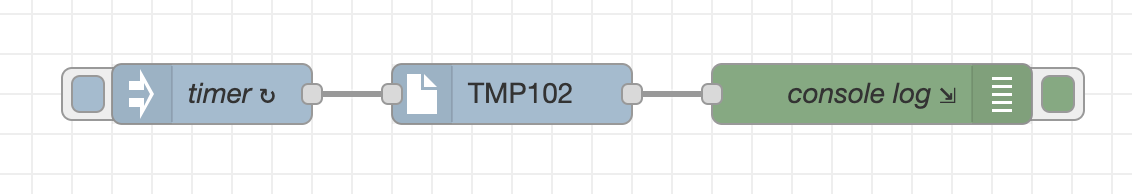
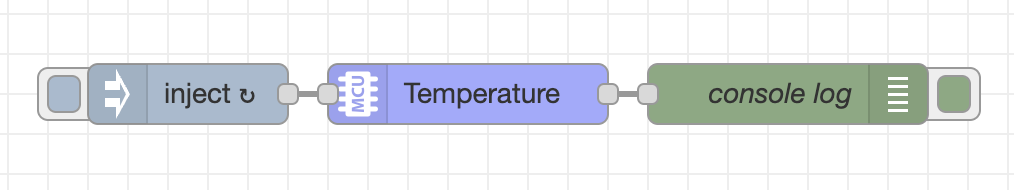
sensor node v2 docs

Changed region(s): [[0.0306, 0.3158, 0.9783, 0.6579]]

diff --git a/nodes/sensor/readme.md b/nodes/sensor/readme.md
@@ -1,10 +1,10 @@
 # MCU Sensor Node
-Copyright 2022, Moddable Tech, Inc. All rights reserved.<br>
+Copyright 2022-2023, Moddable Tech, Inc. All rights reserved.<br>
 Peter Hoddie<br>
-Updated September 29, 2022<br>
+Updated January 15, 2023<br>
 
 ## Overview
-The sensor node supports sensor classes that conform the Ecma-419 [Sensor Class Pattern](https://419.ecma-international.org/#-13-sensor-class-pattern). These include:
+The sensor node integrates sensor classes that conform the Ecma-419 [Sensor Class Pattern](https://419.ecma-international.org/#-13-sensor-class-pattern) into Node-RED. These include:
 
 - [Accelerometer](https://419.ecma-international.org/#-14-sensor-classes-accelerometer)
 - [Ambient light](https://419.ecma-international.org/#-14-sensor-classes-ambient-light)
@@ -14,10 +14,12 @@ The sensor node supports sensor classes that conform the Ecma-419 [Sensor Class 
 - [Temperature](https://419.ecma-international.org/#-14-sensor-classes-temperature)
 - [Touch](https://419.ecma-international.org/#-14-sensor-classes-touch)
 
-Many [additional kinds of sensors](https://github.com/EcmaTC53/spec/blob/master/docs/proposals/Sensor%20Classes%202022.md) will be supported with Ecma-419 2nd edition.
+Many [additional kinds of sensors](https://github.com/EcmaTC53/spec/blob/master/docs/proposals/Sensor%20Classes%202022.md) will be supported with ECMA-419 2nd edition.
+
+This is the second major iteration of the Sensor Node. It simplifies configuration of I/O while also provide many more I/O options. It is now driven by a sensor database that allows many configuration options to be set automatically.
 
 ## Installation
-The Sensor node must be installed into Node-RED to be used in the Node-RED editor. This is done in the usual way:
+The Sensor node must be installed into Node-RED to be used in the Node-RED Editor. This is done in the usual way:
 
 ```
 cd ~/.node-red
@@ -26,7 +28,7 @@ npm install [PATH TO node-red-mcu]/nodes/sensor
 
 The sensor node appears in the "MCU" section of the editor.
 
-## Using a sensor driver
+## Using a Sensor Driver
 A growing [suite](https://github.com/Moddable-OpenSource/moddable/tree/public/modules/drivers/sensors) of compatible sensor class implementations is available in the Moddable SDK. To use one or more of these drivers in your project, do the following steps.
 
 Add the sensor driver manifest to your project. For example, to use the [TMP102 sensor](https://github.com/Moddable-OpenSource/moddable/tree/public/modules/drivers/sensors/tmp102), include the sensor driver manifest in `node-red-mcu/manifest.json`:
@@ -39,7 +41,7 @@ Add the sensor driver manifest to your project. For example, to use the [TMP102 
 		...
 ```
 
-## Creating a flow
+## Creating a Flow
 A simple test flow using the Sensor node has an inject node to periodically trigger a sensor reading, a Sensor node to take the reading, and a debug node to log the sample reading to the console.
 
 <img src="./assets/flow.png" width=550/>
@@ -50,82 +52,93 @@ A simple test flow using the Sensor node has an inject node to periodically trig
 ```json
 [
     {
-        "id": "d908d28ca7c5c7b4",
+        "id": "430f6d9e27cbee39",
         "type": "tab",
-        "label": "Flow 1",
+        "label": "Flow 2",
         "disabled": false,
         "info": "",
-        "env": []
+        "env": [],
     },
     {
-        "id": "7513e498f7507a2c",
+        "id": "0a926ca45efae24e",
         "type": "debug",
-        "z": "d908d28ca7c5c7b4",
+        "z": "430f6d9e27cbee39",
         "name": "console log",
         "active": true,
         "tosidebar": true,
-        "console": true,
+        "console": false,
         "tostatus": false,
         "complete": "true",
         "targetType": "full",
         "statusVal": "",
         "statusType": "auto",
-        "x": 520,
-        "y": 220,
+        "x": 590,
+        "y": 180,
         "wires": []
     },
     {
-        "id": "54ef639af1ff991d",
+        "id": "81b44f35bce77331",
         "type": "sensor",
-        "z": "d908d28ca7c5c7b4",
-        "name": "TMP102",
-        "io": "SMBus",
-        "bus": ""
+        "z": "430f6d9e27cbee39",
+        "name": "Temperature",
+        "platform": "",
         "module": "embedded:sensor/Temperature/TMP102",
-        "configuration": "{\"conversionRate\": 1, \"extendedRange\": true}",
-        "x": 340,
-        "y": 220,
+        "options": {
+            "sensor": {
+                "io": "I2C",
+                "bus": "default",
+                "address": "0x48"
+            }
+        },
+        "configuration": "{\"conversionRate\":1,\"extendedRange\":true}",
+        "x": 430,
+        "y": 180,
         "wires": [
             [
-                "7513e498f7507a2c"
+                "0a926ca45efae24e"
             ]
         ]
     },
     {
-        "id": "0dcbbc2f9b78e62c",
+        "id": "6650a3a2c1f19ca5",
         "type": "inject",
-        "z": "d908d28ca7c5c7b4",
-        "name": "timer",
-        "props": [
-            {
-                "p": "payload"
-            }
-        ],
+        "z": "430f6d9e27cbee39",
+        "name": "",
+        "props": [],
         "repeat": "1",
         "crontab": "",
-        "once": true,
+        "once": false,
         "onceDelay": 0.1,
         "topic": "",
-        "payload": "",
-        "payloadType": "date",
-        "x": 190,
-        "y": 220,
+        "x": 290,
+        "y": 180,
         "wires": [
             [
-                "54ef639af1ff991d"
+                "81b44f35bce77331"
             ]
         ]
     }
 ]
 ```
+
 </details>
 
 The sensor node is configured in the editor.
 
-
 <img src="./assets/ediit=sensor-node.png" width=500/>
 
-The `Module` field is required. This is the module specifier used by the sensor node to `import` the module. You can find the module specifier in the sensor driver's manifest. Here's an example from TMP102.
+The editor options are defined by a database of supported sensors. When you select the sensor to use, the I/O section of the property editor updates to show the settings for that sensor.
+
+The `Bus Name` field is usually set to `default` to select the default I²C or SMBus bus. This field is useful for devices with more than one bus (e.g. M5Atom-Matrix which has both `default` and `internal`).
+
+The `Configure` field is an optional JSON object that is passed to the `configure` method of the sensor driver before taking any readings. This can be useful for configuring advanced modes of the sensor. The configuration can be updated at any time by sending a message with a `configuration` property. (Note that a message containing a `configuration` will not also trigger a sample reading, so does not trigger output from the node.)
+
+Some hosts have built-in sensors that are automatically configured by the host provider. In these cases, there are no I/O options to configure. Here's an example with the `esp32/moddable_two_io` platform.
+
+<img src="./assets/edit-sensor-node-host-provider.png" width=500/>
+
+### Adding Sensor Driver to the Project Manifest
+To use the sensor, the sensor driver must be installed in your project's manifest.
 
 ```json
 	"modules": {
@@ -133,20 +146,14 @@ The `Module` field is required. This is the module specifier used by the sensor 
 	},
 ```
 
-The `I/O` field is set to either I²C or SMBus, depending on the type of I/O the sensor driver users. In most cases it is SMBus.
-
-The `Bus` field is usually left blank or set to `default` to select the default I²C or SMBus bus. Useful for devices with more than one bus (e.g. M5Atom-Matrix which has both `default` and `internal`).
-
-The `Configure` field is an optional JSON object that is passed to the `configure` method of the sensor driver before taking any readings. This can be useful for configuring advanced modes of the sensor. 
-
-## Building a project
-The I/O for sensors uses the default I²C port of the target device. Therefore, it is important to specify the correct platform target when building your project. For example, to build for Moddable Two:
+## Building a Project
+It is common to connect sensors to default I²C bus of the target device. Therefore, it is important to specify the correct platform target when building your project. For example, to build for Moddable Two:
 
 ```
 mcconfig -d -m -p esp32/moddable_two
 ```
 
-The default I²C port comes from the [host provider instance](https://419.ecma-international.org/#-16-host-provider-instance). Not all device ports have a host provider instance. Those that do include Moddable One (`esp/moddable_one`), Moddable Two (`esp32/moddable_two`), Node-MCU for ESP8266 (`esp/nodemcu`), and Node-MCU for ESP32 (`esp32/nodemcu`). If your device port does not have a host provider instance, it is usually straightforward to add a basic one by following the pattern of an [existing port](https://github.com/Moddable-OpenSource/moddable/blob/public/build/devices/esp32/targets/nodemcu/host/provider.js).
+The default I²C bus comes from the [host provider instance](https://419.ecma-international.org/#-16-host-provider-instance). Not all device ports have a host provider instance. Those that do include Moddable One (`esp/moddable_one`), Moddable Two (`esp32/moddable_two`), Node-MCU for ESP8266 (`esp/nodemcu`), and Node-MCU for ESP32 (`esp32/nodemcu`). If your device port does not have a host provider instance, it is usually straightforward to add a basic one by following the pattern of an [existing port](https://github.com/Moddable-OpenSource/moddable/blob/public/build/devices/esp32/targets/nodemcu/host/provider.js). You may also configure the sensor to use specific pin numbers instead of a named bus.
 
 ## Running in Full Node-RED
-When run in full Node-RED the sensor node tries to generate simulated values. It determines the type of the sensor from the module specifier (`embedded:sensor/Temperature/TMP102` or `embedded:sensor/AtmosphericPressure-Temperature/BMP180`). The simulated sensor classes are: Accelerometer, Barometer, Gyroscope, Proximity and Temperature. The simulated values are naive random numbers, but can be useful for testing flows. More work could be done to provide more realistic simulations and support for more sensor types.
+When run in full Node-RED the sensor node generates simulated values. It determines the type of the sensor from the module specifier (`embedded:sensor/Temperature/TMP102` or `embedded:sensor/AtmosphericPressure-Temperature/BMP180`). The simulated sensor classes are: Accelerometer, AmbientLight, Barometer, Gyroscope, Proximity Temperature, and Touch. The simulated values are naive random numbers, but can be useful for testing flows. More work could be done to provide more realistic simulations and support for more sensor types.
